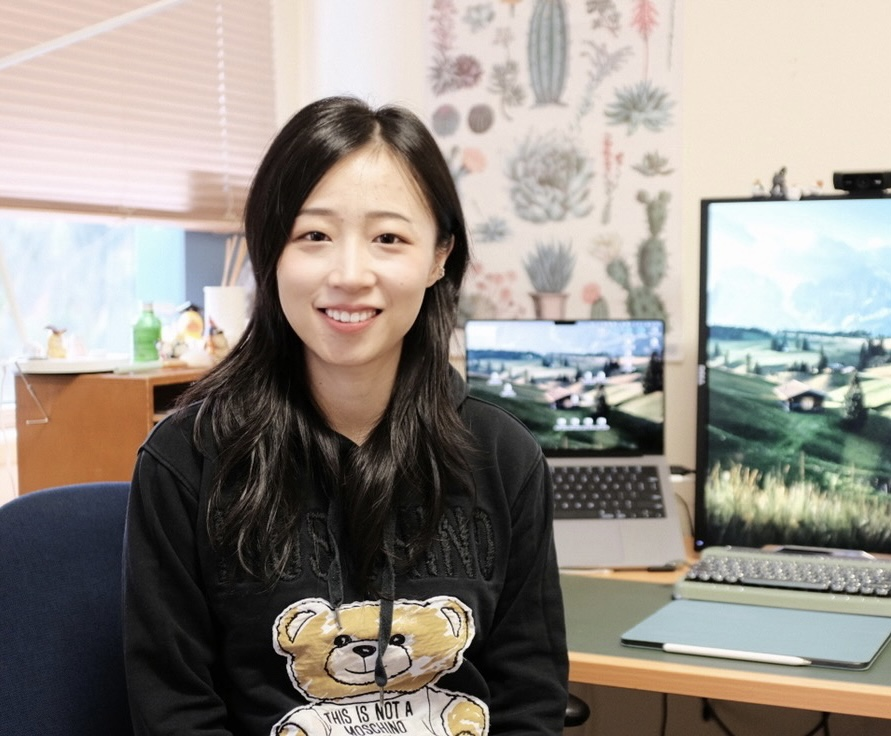
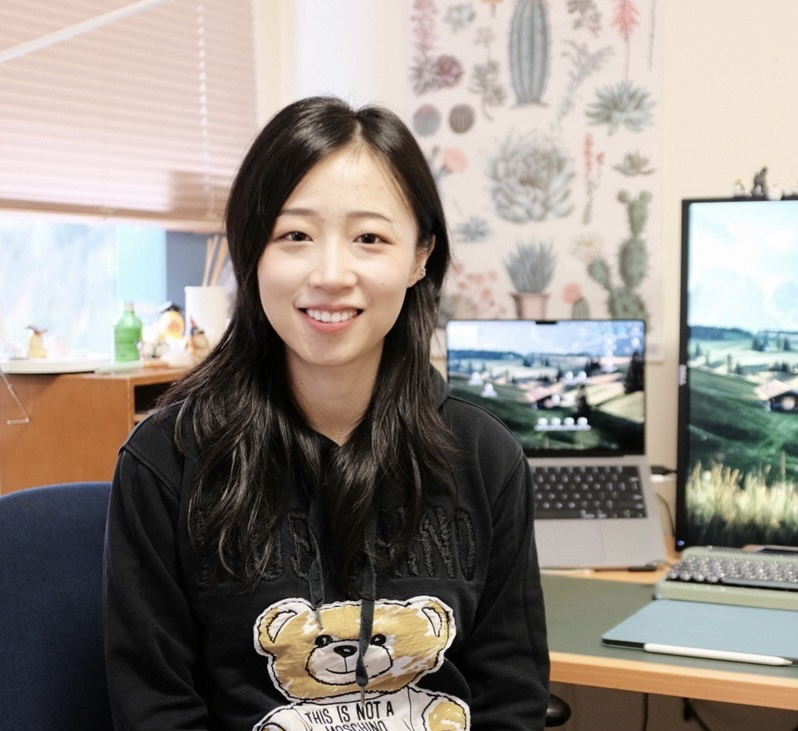
Update jingni's image

diff --git a/_team-members/jingni.md b/_team-members/jingni.md
@@ -1,6 +1,6 @@
 ---
 name: Jingni Yang
-image: jingni.png
+image: jingni.jpg
 link: https://sites.google.com/site/jingniyangorange/home
 role: "Design and Marketing"
 ---
